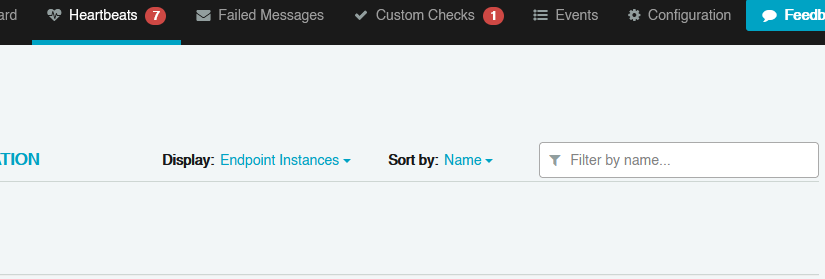
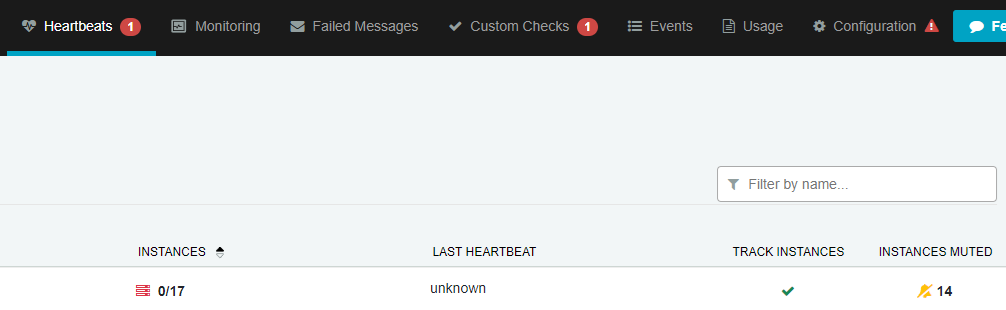
update heartbeats page to reflect new tracking functionality in SC/SP

diff --git a/monitoring/heartbeats/in-servicepulse.md b/monitoring/heartbeats/in-servicepulse.md
@@ -6,38 +6,62 @@ redirects:
   - servicepulse/intro-endpoints-heartbeats
 ---
 
-ServicePulse relies on heartbeat messages sent from the heartbeat plugin to indicate whether an endpoint is active or inactive. The main dashboard shows a heartbeat icon which will indicate if there are any inactive endpoints.
+ServicePulse relies on heartbeat messages sent from the heartbeat plugin to indicate whether an endpoint is healthy or unhealthy. The main dashboard shows a heartbeat icon which will indicate if there are any unhealthy endpoints.
 
-![Heartbeats icon with inactive endpoints](heartbeats-dashboard-notification.png)
+![Heartbeats icon with unhealthy endpoints](heartbeats-dashboard-notification.png)
 
-Click this icon to go to the endpoints overview. This page shows a list of active and inactive endpoint instances. Each endpoint instance shows when the most recent heartbeat from that instance was received.
+Click this icon to go to the endpoints overview. This page shows a list of healthy and unhealthy [logical endpoints](/nservicebus/endpoints/#logical-endpoints). Each endpoint shows the number of [instances](/nservicebus/endpoints/#endpoint-instance) associated with that endpoint, when the most recent heartbeat from any instance of that endpoint was received, whether the endpoint [tracks instances or not](#configuration-track-instances), and whether any instances associated with the endpoint have their [alerts muted](#instances-muting-instances).
 
-![Endpoints overview page](endpoints-overview.png)
+![Endpoints overview page](endpoints-overview.png "width=800")
 
-Heartbeats may be shown for each [endpoint instance](/nservicebus/endpoints/#endpoint-instance), or for each [logical endpoint](/nservicebus/endpoints/#logical-endpoints). Use the "Display" dropdown to change between displaying endpoint instances and logical endpoints.
+The list of endpoints can be sorted by any column, or filtered using the filter textbox on the right side of the page.
 
-The list of endpoints can be sorted or filtered using the sort dropdown and the filter textbox on the right side of the page.
+![Sort and filter Entpoinds](sort-endpoints.png "width=800")
 
-![Sort and filter Entpoinds](sort-endpoints.png)
+- **NAME**: The logical name of the endpoint. Clicking this value will navigate to a page displaying the [instances](#instances) associated with this endpoint
+- **INSTANCES**: An indication of the number of instances detected for this endpoint. The icon displayed is color coded: green for all instances alive, yellow for some instances alive and red for no instances alive.
+  - For [Track Instances](#configuration-track-instances) endpoints, this will display `number of alive instances`/`total number of known instances`
+  - For [Do Not Track Instances](#configuration-do-not-track-instances) endpoints, this will display the current number of alive instances
+- **LAST HEARTBEAT**: Approximate time the last heartbeat for any instance was received.
+- **TRACK INSTANCES**: A checkmark is displayed if this endpoint is set to [Track Instances](#configuration-track-instances)
+- **INSTANCES MUTED**: An indication of the number of instances that have had their heartbeat [alerts muted](#instances-muting-instances). The icon displayed is color coded: yellow for some instances muted and red for all instances muted.
 
-## Hiding endpoints
+## Configuration
 
-By default, each new endpoint discovered by ServicePulse is monitored for heartbeats. If the endpoint is not sending heartbeats (either because it is offline or because it does not have the heartbeats plugin installed) it will immediately be marked as inactive.
+The configuration tab allows for configuring the Track/Do Not Track Instances status of each endpoint, as well as setting the default for any new logical endpoints that come online.
 
-Heartbeat monitoring for endpoint instances can be configured in the configuration tab of the Heartbeats page.
+![Configuration page](sp-configuration-page.png "width=800")
 
-![Configuration page](sp-configuration-page.png)
-
-Setting the endpoint to "Off" will prevent it from appearing on the endpoints overview screen and from affecting the dashboard.
+There are bulk operation buttons at the top of the tab to allow for setting the Track/Do Not Track Instances status of all endpoints at once.
 
 > [!NOTE]
-> This is a configuration setting only and the endpoint itself may still be configured to send heartbeat messages.
+> This feature requires ServicePulse version 1.42.0 or higher and ServiceControl version 5.9.0 or higher.
 
-## Removing endpoints
+### Track Instances
 
-When an endpoint has been decommissioned and should no longer be displayed in ServicePulse it can be removed. From the Endpoint Heartbeats screen, click the trash bin icon next to an endpoint's name to remove it from ServicePulse. The trash icon is only visible when displaying endpoint instances. It is not shown when displaying logical endpoints.
+`Track Instances` is the best setting for endpoints where all instances are hosted in physical infrastructure that is not auto-scaled. For example, physical or virtual servers. All current and historical instances will be tracked, unless the instance is [deleted](#instances-removing-endpoint-instances). If any instances are not receiving heartbeats, or if any instances have been muted, then the endpoint is marked as unhealthy.
+
+### Do Not Track Instances
+
+`Do Not Track Instances` is the best setting for endpoints that are hosted in infrastructure with autoscalers. For example, Kubernetes, Azure Container Apps and AWS Elastic Container Service. Historical instances are not tracked, and only currently alive instances will be shown. The endpoint will be marked as unhealthy if there are no alive instances, and will be automatically removed after 6 hours of inactivity.
+
+## Instances
+
+Each logical endpoint has one or many physical or virtual instances that perform the actual work of handling or sending messages.
+
+![Instances](sp-endpoint-instances.png "width=800")
+
+### Muting Instances
+
+By default, each new endpoint instance discovered by ServicePulse is monitored for heartbeats. If the instance is not sending heartbeats (either because it is offline or because it does not have the heartbeats plugin installed) it will immediately be marked as unhealthy and an alert will show in the navigation and on the dashboard. If this is not desired, E.g. if the instance is intentionally offline for maintenance or redeployment, then the instance can be muted which will prevent alerts from being shown. The endpoint will still be marked as unhealthy, as a reminder to unmute once maintenance is complete.
+
+There are bulk operation buttons at the top of the screen to allow for muting or unmuting all instances of an endpoint at once.
+
+### Removing Endpoint Instances
+
+When an endpoint instance has been decommissioned, and should no longer be displayed in ServicePulse, it can be removed. 
+- For [Tracked Instances](#configuration-track-instances), click the `Delete` button on the instance row to remove it from ServicePulse
+- For [Untracked Instances](#configuration-do-not-track-instances) the endpoint will automatically be removed after 6 hours of inactivity.
 
 > [!NOTE]
 > This feature requires ServicePulse version 1.23 or higher and ServiceControl version 4.4 or higher.
-
-![Remove endpoint](sp-remove-endpoint.png)
